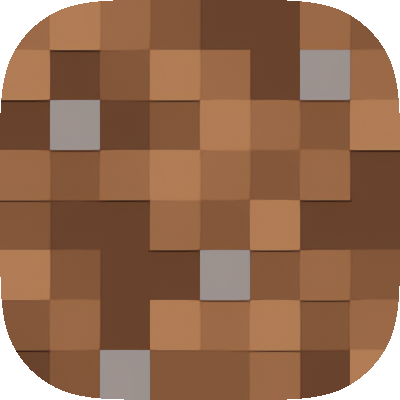
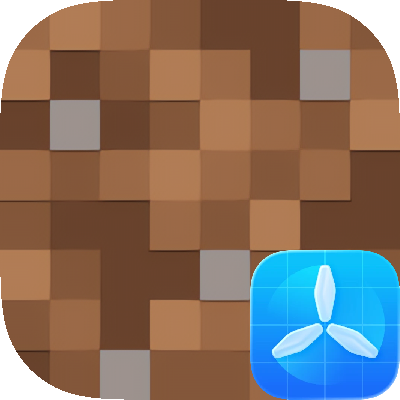
Upd

Changed region(s): [[0.6, 0.6, 1.0, 1.0]]

diff --git a/IPA-save/pages/minecraft-t-en-us.html b/IPA-save/pages/minecraft-t-en-us.html
@@ -3,9 +3,9 @@
 <head>
     <meta charset="UTF-8">
     <meta name="viewport" content="width=device-width, initial-scale=1.0">
-    <title>Astro DX Testflight GroupC</title>
+    <title>Minecraft Preview</title>
     <link rel="stylesheet" href="../../global-variables.css">
-    <link rel="icon" href="../images/astrodx-t.png" type="image/png" />
+    <link rel="icon" href="../images/minecraft-t.png" type="image/png" />
     <script>
         (function(){
             try {
@@ -65,6 +65,7 @@
     </tr>
   </table>
   </div>
+  <p>Quick Links: <a href="#26.10">1.26.10.x</a>; <a href="#26.20">1.26.20.x</a>; <a href="#26.30">1.26.30.x</a></p>
   <br>
     <div id="buttonContainer"></div>
     <div class="responsive-table-wrapper">

diff --git a/old/IPA-save/pages/minecraft-t-en-us.html b/old/IPA-save/pages/minecraft-t-en-us.html
@@ -3,9 +3,9 @@
 <head>
     <meta charset="UTF-8">
     <meta name="viewport" content="width=device-width, initial-scale=1.0">
-    <title>Astro DX Testflight GroupC</title>
+    <title>Minecraft Preview</title>
     <link rel="stylesheet" href="../../global-variables.css">
-    <link rel="icon" href="../images/astrodx-t.png" type="image/png" />
+    <link rel="icon" href="../images/minecraft-t.png" type="image/png" />
     <script>
         (function(){
             try {

diff --git a/index.html b/index.html
@@ -61,8 +61,9 @@ td, th {
             <p style="margin: 10px 0">
                 · NEW APP Apple Store <br>
                 · NEW APP Cut the Rope 2 <br>
+                · NEW APP Minecraft Preview <br>
                 · NEW Keynote versions <br>
-                · NEW Minecraft 1.20.70, 1.20.71, 1.20.72, 1.20.73
+                · NEW Minecraft versions
             </p>
 
             <h4>macOS-save</h4>
